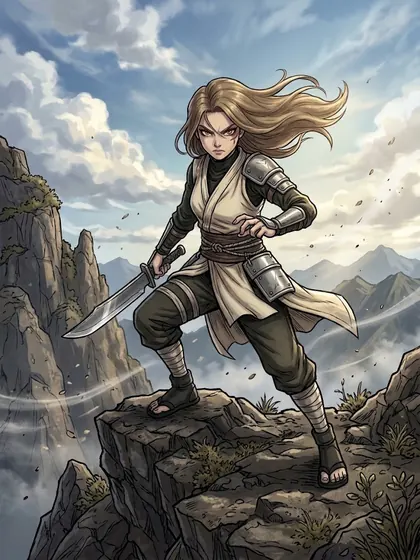
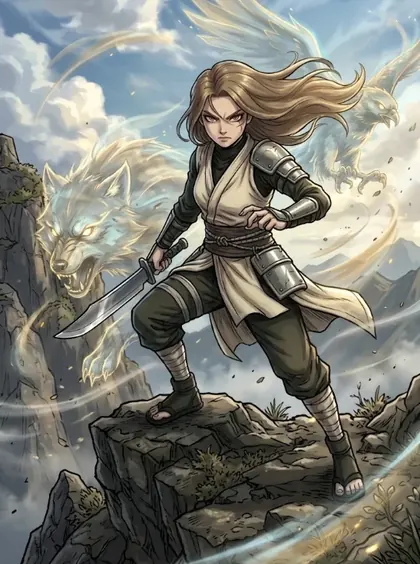
New card art for Soothe, Pyroblast, Ancient Treant, Call Wolves, Overgrowth, Bulwark, the Grave Tide cards, Kunoichi and Pyre Adept
Optimized WebP (420-520px, about 35-45 KB each) with explicit art paths; old PNGs removed.

diff --git a/src/cards/cards.ts b/src/cards/cards.ts
@@ -120,7 +120,7 @@ export const CARDS: Record<string, CardDef> = {
     power: 2,
     toughness: 1,
     skill: 'Beast Blitz',
-    art: '/cards/kunoichi.webp', // 420x560 WebP; other cards auto-wire to <id>.png
+    art: '/cards/kunoichi.webp', // 420x564 WebP; other cards auto-wire to <id>.png
     text: 'Beast Blitz — your Swift Lancer, Sky Talon, Stoneback Cub, Thornwood Brute, Dread Maw, and Wolves get +1/+1.',
     flavor: 'One whistle, and the wild answers.',
   },
@@ -129,7 +129,7 @@ export const CARDS: Record<string, CardDef> = {
     id: 'pyre_adept',
     name: 'Pyre Adept',
     type: 'creature',
-    art: '/cards/pyre_adept.webp', // 420px WebP; other cards auto-wire to <id>.png
+    art: '/cards/pyre_adept.webp', // 420x420 WebP; other cards auto-wire to <id>.png
     cost: 2,
     power: 1,
     toughness: 2,
@@ -147,6 +147,7 @@ export const CARDS: Record<string, CardDef> = {
     toughness: 7,
     keywords: ['trample'],
     text: 'Trample.',
+    art: '/cards/ancient_treant.webp', // 520x285 WebP; other cards auto-wire to <id>.png
     flavor: 'Older than the kingdoms that fear it.',
   },
   bulwark: {
@@ -158,6 +159,7 @@ export const CARDS: Record<string, CardDef> = {
     toughness: 6,
     keywords: ['defender', 'reach', 'flash'],
     text: 'Flash. Defender (cannot attack). Reach.',
+    art: '/cards/bulwark.webp', // 420x419 WebP; other cards auto-wire to <id>.png
     flavor: 'The line holds here.',
   },
   wolf_token: {
@@ -224,6 +226,7 @@ export const CARDS: Record<string, CardDef> = {
     power: 1,
     toughness: 1,
     text: 'Token.',
+    art: '/cards/zombie_token.webp', // 420x418 WebP; other cards auto-wire to <id>.png
     flavor: 'It rises again, and again, and again.',
   },
   shambling_ghoul: {
@@ -233,6 +236,7 @@ export const CARDS: Record<string, CardDef> = {
     cost: 2,
     power: 2,
     toughness: 2,
+    art: '/cards/shambling_ghoul.webp', // 420x420 WebP; other cards auto-wire to <id>.png
     flavor: 'It shambles ever forward, and never tires.',
   },
   plague_priest: {
@@ -246,6 +250,7 @@ export const CARDS: Record<string, CardDef> = {
     skill: 'Rot',
     onEnter: { type: 'discard', amount: 1 },
     text: 'Rot — when it enters, your opponent discards a card at random. Whenever you cast a sorcery, they lose 1 life.',
+    art: '/cards/plague_priest.webp', // 420x423 WebP; other cards auto-wire to <id>.png
     flavor: 'Every incantation spreads the rot a little further.',
   },
   grave_necromancer: {
@@ -272,6 +277,7 @@ export const CARDS: Record<string, CardDef> = {
     toughness: 5,
     onDeath: { type: 'token', token: 'zombie_token', count: 1 },
     text: 'Last breath — when it dies, raise a 1/1 Zombie.',
+    art: '/cards/rotting_hulk.webp', // 420x422 WebP; other cards auto-wire to <id>.png
     flavor: 'A mound of grave-flesh stitched with spite.',
   },
   carrion_colossus: {
@@ -283,6 +289,7 @@ export const CARDS: Record<string, CardDef> = {
     toughness: 6,
     keywords: ['lifelink'],
     text: 'Lifelink.',
+    art: '/cards/carrion_colossus.webp', // 420x418 WebP; other cards auto-wire to <id>.png
     flavor: 'The tide of the dead, made flesh at last.',
   },
 
@@ -331,6 +338,7 @@ export const CARDS: Record<string, CardDef> = {
     cost: 4,
     effect: { type: 'damage', amount: 6, targets: 'any' },
     text: 'Deal 6 damage to any target.',
+    art: '/cards/pyroblast.webp', // 520x287 WebP; other cards auto-wire to <id>.png
     flavor: 'The sky itself catches fire.',
   },
   call_wolves: {
@@ -340,6 +348,7 @@ export const CARDS: Record<string, CardDef> = {
     cost: 2,
     effect: { type: 'token', token: 'wolf_token', count: 2 },
     text: 'Create two 1/1 Wolves.',
+    art: '/cards/call_wolves.webp', // 480x355 WebP; other cards auto-wire to <id>.png
     flavor: 'One howl, and the wild comes running.',
   },
   raise_horde: {
@@ -350,6 +359,7 @@ export const CARDS: Record<string, CardDef> = {
     effect: { type: 'token', token: 'zombie_token', count: 2 },
     flashback: 5,
     text: 'Raise two 1/1 Zombies. Flashback ◈5 — cast it from your graveyard, then exile it.',
+    art: '/cards/raise_horde.webp', // 420x420 WebP; other cards auto-wire to <id>.png
     flavor: 'The soil remembers every soldier it has swallowed.',
   },
   overgrowth: {
@@ -359,6 +369,7 @@ export const CARDS: Record<string, CardDef> = {
     cost: 2,
     effect: { type: 'ramp', amount: 2 },
     text: 'Put up to two lands from your hand onto the battlefield.',
+    art: '/cards/overgrowth.webp', // 520x264 WebP; other cards auto-wire to <id>.png
     flavor: 'The forest rushes to meet you.',
   },
   soothe: {
@@ -368,6 +379,7 @@ export const CARDS: Record<string, CardDef> = {
     cost: 2,
     effect: { type: 'heal', amount: 6 },
     text: 'Instant — Gain 6 life.',
+    art: '/cards/soothe.webp', // 420x421 WebP; other cards auto-wire to <id>.png
     flavor: 'Rest now. The walls will hold.',
   },
   topple: {
